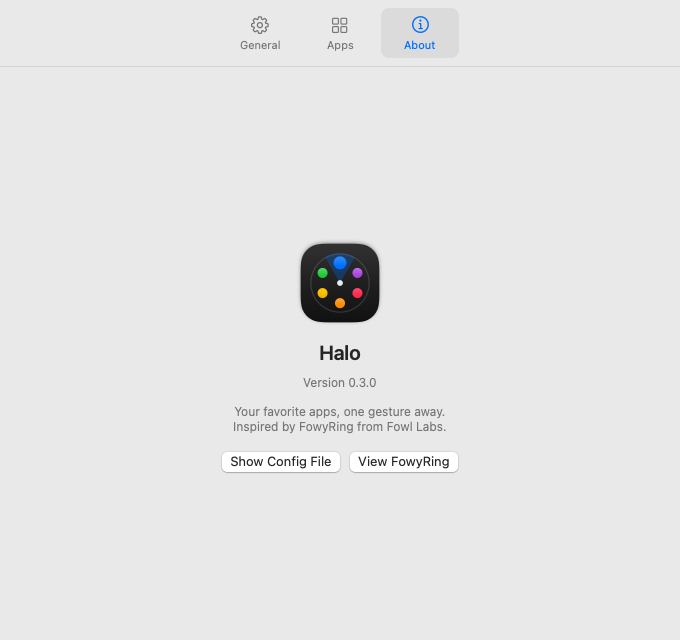
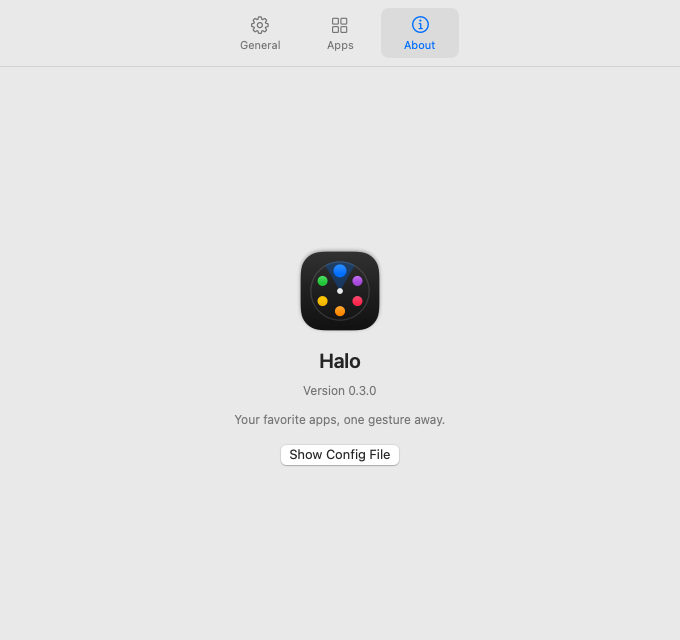
Make Halo standalone: remove references to other products from app, READMEs and devlog

Changed region(s): [[0.3397, 0.375, 0.6794, 0.75]]

diff --git a/Sources/Halo/Settings.swift b/Sources/Halo/Settings.swift
@@ -506,13 +506,9 @@ struct AboutTab: View {
             AppIcon().frame(width: 1024, height: 1024).scaleEffect(96.0 / 1024).frame(width: 96, height: 96)
             Text("Halo").font(.system(size: 20, weight: .semibold))
             Text(tr("Version 0.3.0", "Phiên bản 0.3.0")).font(.system(size: 12)).foregroundStyle(.secondary)
-            Text(tr("Your favorite apps, one gesture away.\nInspired by FowyRing from Fowl Labs.",
-                    "Ứng dụng yêu thích của bạn, trong một cử chỉ.\nLấy cảm hứng từ FowyRing của Fowl Labs."))
+            Text(tr("Your favorite apps, one gesture away.", "Ứng dụng yêu thích của bạn, trong một cử chỉ."))
                 .font(.system(size: 12)).multilineTextAlignment(.center).foregroundStyle(.secondary).padding(.top, 4)
-            HStack(spacing: 10) {
-                Button(tr("Show Config File", "Mở file cấu hình")) { NSWorkspace.shared.activateFileViewerSelecting([Config.url]) }
-                Button(tr("View FowyRing", "Xem FowyRing")) { NSWorkspace.shared.open(URL(string: "https://fowllabs.com/apps/fowyring/")!) }
-            }
+            Button(tr("Show Config File", "Mở file cấu hình")) { NSWorkspace.shared.activateFileViewerSelecting([Config.url]) }
             .padding(.top, 8)
         }
         .frame(maxWidth: .infinity, maxHeight: .infinity)

diff --git a/Sources/Halo/Geometry.swift b/Sources/Halo/Geometry.swift
@@ -59,7 +59,7 @@ enum Geometry {
         precondition(slotIndex(dx: -5, dy: -100, count: 4) == 0, "lệch trái chút vẫn ô 0 (không bị % thành ô cuối sai)")
         precondition(slotIndex(dx: 60, dy: 60, count: 1) == 0)
         let p = slotOffset(1, count: 5)  // ô 1/5 trên bán kính 104
-        precondition(abs(p.x - 98.91) < 0.01 && abs(p.y + 32.14) < 0.01, "toạ độ ô khớp bản gốc")
+        precondition(abs(p.x - 98.91) < 0.01 && abs(p.y + 32.14) < 0.01, "ô 1/5 trên bán kính 104")
         // danh sách cửa sổ: ô 1/4 (bên phải), 3 hàng
         precondition(listSide(1, count: 4) == 1 && listSide(3, count: 4) == -1 && listSide(0, count: 4) == 1, "phía danh sách")
         precondition(rowIndex(dx: 100, dy: 0, rows: 3, slot: 1, count: 4) == nil, "trong vòng -> chưa chọn cửa sổ")

diff --git a/README.vi.md b/README.vi.md
@@ -141,7 +141,7 @@ Mọi thay đổi có hiệu lực ngay.
 
 ## Cách hoạt động
 
-- **Mọi thứ ở trên máy bạn.** Halo không gửi request mạng nào. Link web duy nhất là nút "Xem FowyRing" ở tab Giới thiệu, chỉ mở trình duyệt khi bạn bấm.
+- **Mọi thứ ở trên máy bạn.** Halo không gửi request mạng nào và không chứa link web nào.
 - **Bắt phím:** một event tap của hệ thống theo dõi phím bổ trợ. Nó chỉ phản ứng khi phím kích hoạt được giữ một mình, và chỉ chặn các phím điều hướng (Tab, mũi tên, số, Enter, Esc, Space) khi vòng đang mở.
 - **Cửa sổ:** danh sách lấy từ Accessibility API của macOS, cùng quyền dùng cho phím. Halo không cần quyền ghi màn hình.
 - **Cài đặt** lưu ở `~/Library/Application Support/Halo/config.json`. Sửa tay cũng được. Khoá nào thiếu thì dùng giá trị mặc định.
@@ -190,8 +190,6 @@ Code và các quyết định thiết kế được giải thích trong [devlog]
 
 Muốn gỡ chứng chỉ ký: mở Keychain Access và xoá "Halo Local Signing".
 
-## Ghi công và giấy phép
-
-Cách tương tác của Halo lấy cảm hứng từ [FowyRing](https://fowllabs.com/apps/fowyring/) của Fowl Labs. Halo là dự án độc lập, code viết mới hoàn toàn.
+## Giấy phép
 
 Phát hành theo [giấy phép MIT](LICENSE).

diff --git a/README.md b/README.md
@@ -140,7 +140,7 @@ All changes apply immediately.
 
 ## How it works
 
-- **Everything stays on your Mac.** Halo makes no network requests. The only web link is the "View FowyRing" button in the About tab, which opens your browser when you click it.
+- **Everything stays on your Mac.** Halo makes no network requests and contains no web links.
 - **Key detection:** a system event tap watches modifier keys. It only acts when the trigger key is held alone, and it swallows navigation keys (Tab, arrows, digits, Enter, Esc) only while the ring is open.
 - **Windows:** the window list comes from the macOS Accessibility API, which is the same permission used for the key. Halo doesn't need Screen Recording.
 - **Settings** are saved to `~/Library/Application Support/Halo/config.json`. You can edit the file by hand. Missing keys fall back to defaults.
@@ -201,8 +201,6 @@ The [devlog](docs/devlog/README.md) explains the problems we hit and the design 
 
 To remove the signing certificate later, open Keychain Access and delete "Halo Local Signing".
 
-## Credits and license
-
-Halo's interaction is inspired by [FowyRing](https://fowllabs.com/apps/fowyring/) from Fowl Labs. Halo is an independent project written from scratch.
+## License
 
 Released under the [MIT License](LICENSE).

diff --git a/docs/devlog/build-ring-launcher.md b/docs/devlog/build-ring-launcher.md
@@ -4,9 +4,9 @@
 
 ## What the user needed
 
-The starting point was a question: could we build our own version of FowyRing — a macOS launcher where you hold a key, flick toward an app on a ring, and release — and could we do it with [xtool](https://github.com/xtool-org/xtool)?
+The goal: a macOS launcher where you hold a key, flick toward an app on a ring, and release. The first question was whether [xtool](https://github.com/xtool-org/xtool) was the right way to build it.
 
-The goal was a working app on this Mac: hold a key, see a ring of favorite apps, open one by pointing at it.
+The target was a working app on this Mac: hold a key, see a ring of favorite apps, open one by pointing at it.
 
 ## What the feature had to do
 

diff --git a/docs/devlog/fix-no-icon-no-dock.md b/docs/devlog/fix-no-icon-no-dock.md
@@ -12,7 +12,7 @@ Two complaints in a row:
 ## Why it happened
 
 1. The bundle had no icon at all. The menu bar used a generic system symbol (◎).
-2. Halo is built as menu-bar-only (`LSUIElement`), like the app that inspired it. That's right for the ring, but it left the Settings window without a Dock tile or a ⌘Tab entry.
+2. Halo is built as menu-bar-only (`LSUIElement`). That's right for the ring, but it left the Settings window without a Dock tile or a ⌘Tab entry.
 
 ## Fix
 

diff --git a/docs/devlog/build-trigger-key-and-delay.md b/docs/devlog/build-trigger-key-and-delay.md
@@ -17,7 +17,7 @@ The problem was elements that **looked like controls but weren't**:
 
 ## What the feature had to do
 
-- Let users choose the trigger key, including 🌐 Globe like the original app.
+- Let users choose the trigger key, including 🌐 Globe.
 - Let users tune the delay. Too short, and the ring triggers during normal shortcuts.
 - Reflect the choice everywhere it's shown.
 
